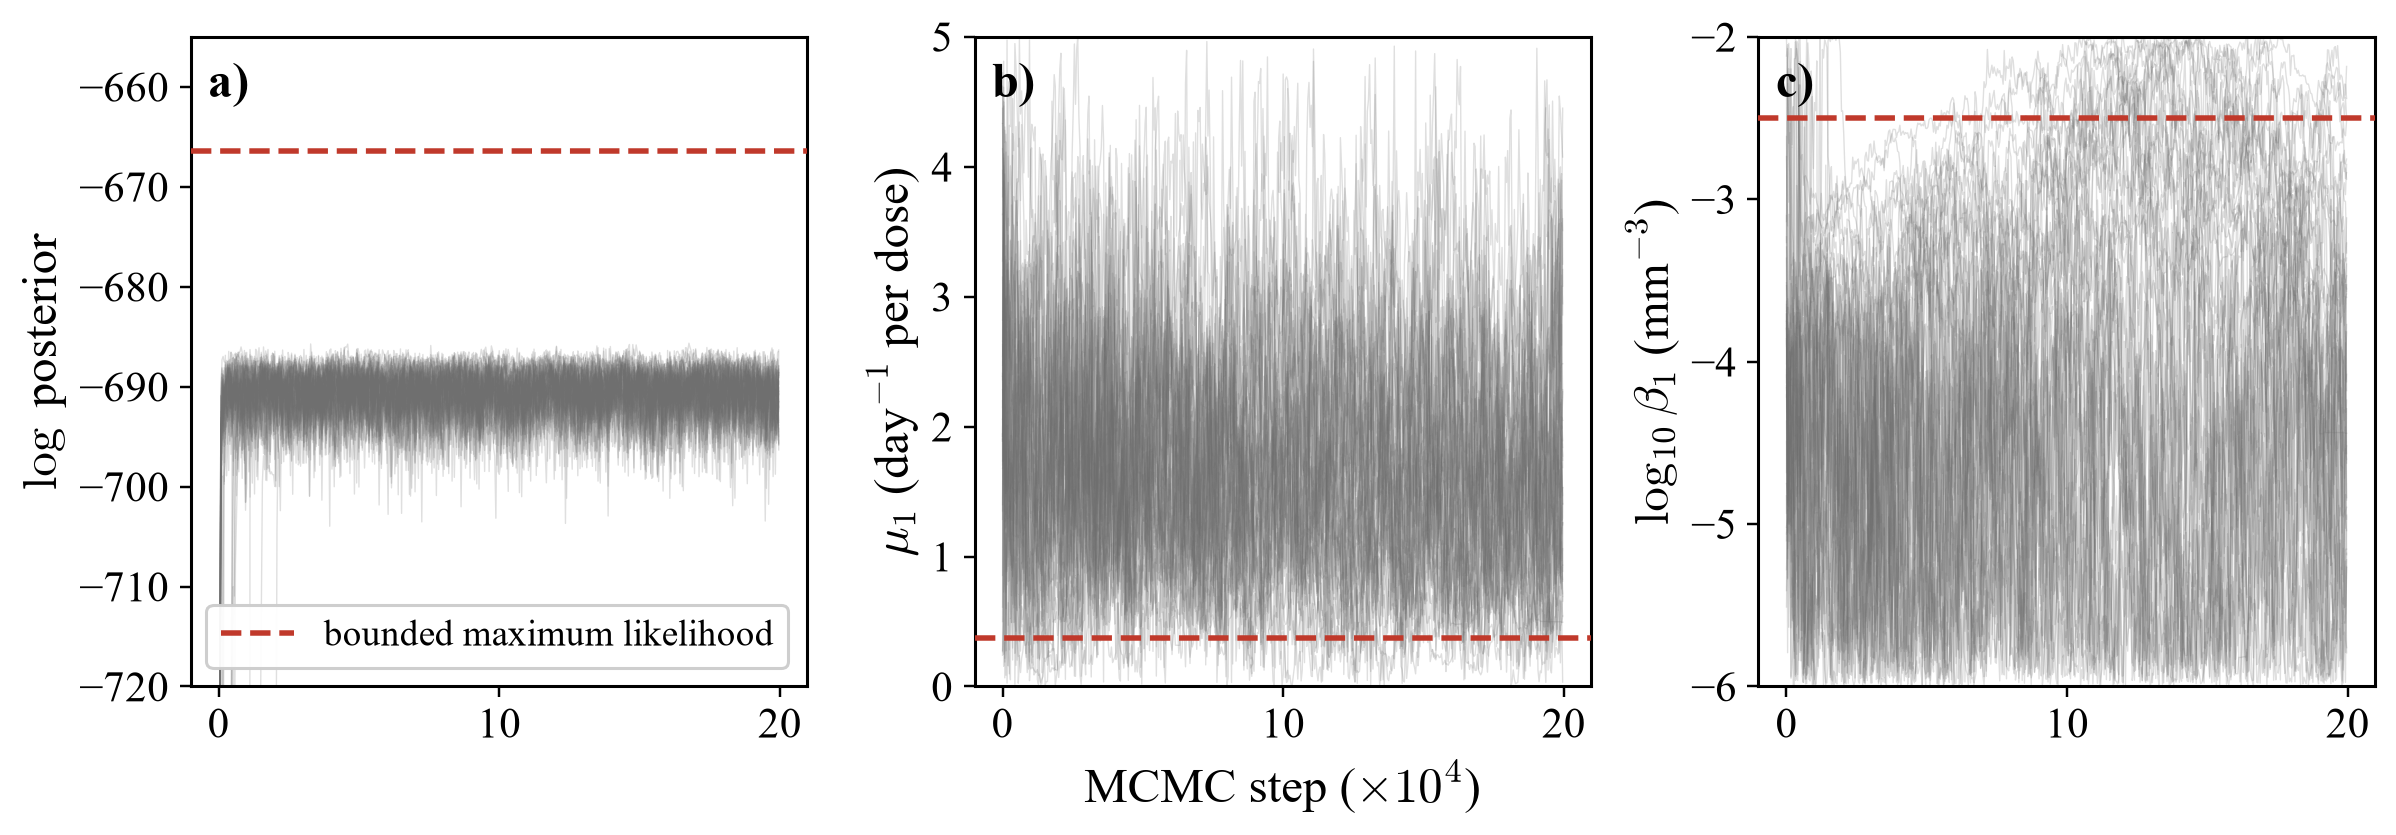
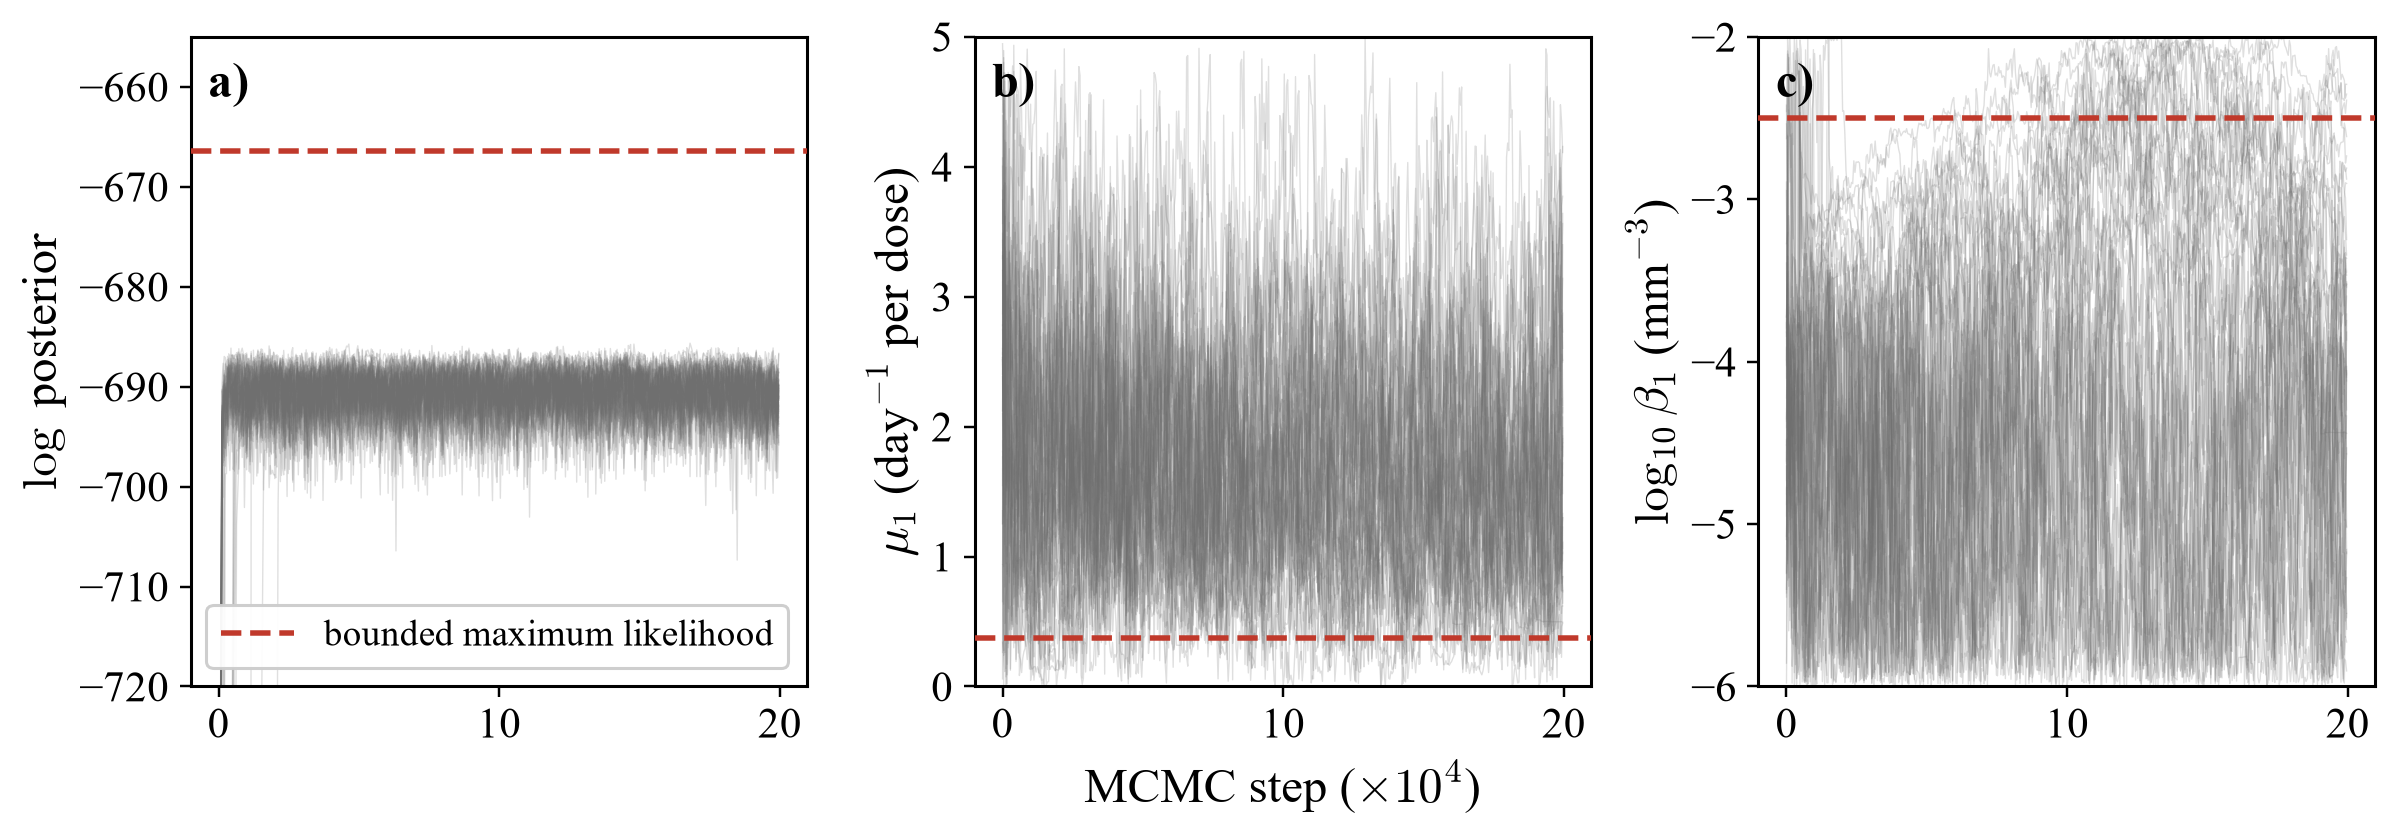
Draw the T-M-C traces from the chains that travel with the repository
Figures 3.17 and C.2 read the resumable backend, which is not published; they now fall back to
chains/04_treatment_calibration, and export_chains.py records the proposals each walker accepted so
that the acceptance fraction printed with the figures is reproducible too.

diff --git a/04_treatment_calibration/figures_thesis/plot_mechanistic_chains.py b/04_treatment_calibration/figures_thesis/plot_mechanistic_chains.py
@@ -11,9 +11,10 @@ shown as traces rather than described. Two figures are written.
 
   jilani_tmc_chain_full.png  the same run with one panel per model parameter, for the appendix.
 
-Input: the emcee backend of the run, reinitiate_files/reinitiate_cart_sl_b16_mac_treat.h5, which is
-not published with the repository (the chains are distributed separately), and the bounded estimate
-Output_Calibration/TMC/mle_bounded_cart_sl_b16.npz.
+Input: the chain of the run, read from the resumable backend
+reinitiate_files/reinitiate_cart_sl_b16_mac_treat.h5 when a calibration is at hand and otherwise from
+chains/04_treatment_calibration/reinitiate_cart_sl_b16_mac_treat.npz, which travels with the code, and
+the bounded estimate Output_Calibration/TMC/mle_bounded_cart_sl_b16.npz.
 """
 import os
 import sys
@@ -33,6 +34,8 @@ plt.rcParams.update({'axes.labelsize': 16, 'xtick.labelsize': 14, 'ytick.labelsi
 
 GROUP = 'cart_sl_b16'
 BACKEND = os.path.join(CALIBRATION_DIR, 'reinitiate_files', f'reinitiate_{GROUP}_mac_treat.h5')
+EXPORTED = os.path.join(os.path.dirname(CALIBRATION_DIR), 'chains', '04_treatment_calibration',
+                        f'reinitiate_{GROUP}_mac_treat.npz')
 MLE = os.path.join(CALIBRATION_DIR, 'Output_Calibration', 'TMC', f'mle_bounded_{GROUP}.npz')
 COL_WALK, COL_MLE = '#6f6f6f', '#c0392b'
 THIN, N_WALKERS = 400, 45
@@ -52,13 +55,21 @@ PARAMS = [
 
 
 def load():
-    if not os.path.exists(BACKEND):
-        sys.exit(f'{BACKEND} not found. This figure reads the _mac_treat backend of the long-hinge '
-                 'group, which is distributed separately from the repository.')
-    b = emcee.backends.HDFBackend(BACKEND, read_only=True)
-    chain, logp = b.get_chain(thin=THIN), b.get_log_prob(thin=THIN)
-    n_steps = b.get_chain().shape[0]
-    accept = float(np.mean(b.accepted)) / n_steps
+    if os.path.exists(BACKEND):
+        b = emcee.backends.HDFBackend(BACKEND, read_only=True)
+        chain, logp = b.get_chain(thin=THIN), b.get_log_prob(thin=THIN)
+        n_steps = b.get_chain().shape[0]
+        accept = float(np.mean(b.accepted)) / n_steps
+    elif os.path.exists(EXPORTED):
+        e = np.load(EXPORTED, allow_pickle=False)
+        stride = max(1, THIN // int(e['thin']))
+        chain, logp = e['chain'][::stride], e['log_prob'][::stride]
+        n_steps = int(e['n_steps'])
+        accept = float(np.mean(e['accepted'])) / n_steps if 'accepted' in e.files else float('nan')
+    else:
+        sys.exit(f'neither {BACKEND} nor {EXPORTED} found. This figure reads the _mac_treat chain of '
+                 'the long-hinge group, from a calibration of this repository or from the chains that '
+                 'travel with it.')
     z = np.load(MLE, allow_pickle=True)
     steps = np.arange(chain.shape[0]) * THIN / 1.0e4          # in units of 10^4 steps
     return chain[:, :N_WALKERS, :], logp[:, :N_WALKERS], steps, np.asarray(z['theta'], float), float(z['ll']), accept

diff --git a/export_chains.py b/export_chains.py
@@ -15,6 +15,7 @@ Each HDF5 backend becomes one compressed file
                     steps, and the value that keeps the stored arrays under 90 MiB
         n_steps     number of steps of the original chain
         burn_in     first quarter of the steps, in original steps
+        accepted    (walkers,) proposals accepted by each walker over the whole chain
 
 The chains are read with the thinning applied inside the HDF5 file, so long chains never reach memory in full.
 Read a file with `read_exported_chain`.
@@ -58,7 +59,8 @@ def export(rel, out):
     log_prob = backend.get_log_prob(thin=thin).astype(np.float32)
     target = os.path.join(out, rel.split('/')[0], os.path.basename(rel).replace('.h5', '.npz'))
     os.makedirs(os.path.dirname(target), exist_ok=True)
-    np.savez_compressed(target, chain=chain, log_prob=log_prob, thin=thin, n_steps=steps, burn_in=steps // 4)
+    np.savez_compressed(target, chain=chain, log_prob=log_prob, thin=thin, n_steps=steps,
+                        burn_in=steps // 4, accepted=np.asarray(backend.accepted))
     return dict(file=os.path.relpath(target, out).replace('\\', '/'), steps=steps, thin=thin,
                 walkers=int(chain.shape[1]), parameters=int(chain.shape[2]),
                 megabytes=round(os.path.getsize(target) / 1e6, 1))

diff --git a/chains/README.md b/chains/README.md
@@ -23,6 +23,7 @@ Each file is a compressed NumPy archive, read by `read_exported_chain` in `expor
 | `thin` | thinning interval |
 | `n_steps` | number of steps of the original chain |
 | `burn_in` | burn-in used in the thesis (first quarter of the steps), in original steps |
+| `accepted` | (walkers,) proposals accepted by each walker over the whole chain |
 
 The parameter order is that of the calibration code (`bounds*.py` of each step). The posterior samples used
 in the thesis are `chain[burn_in // thin:]`. The thinning is the largest of ten, the value that keeps at
